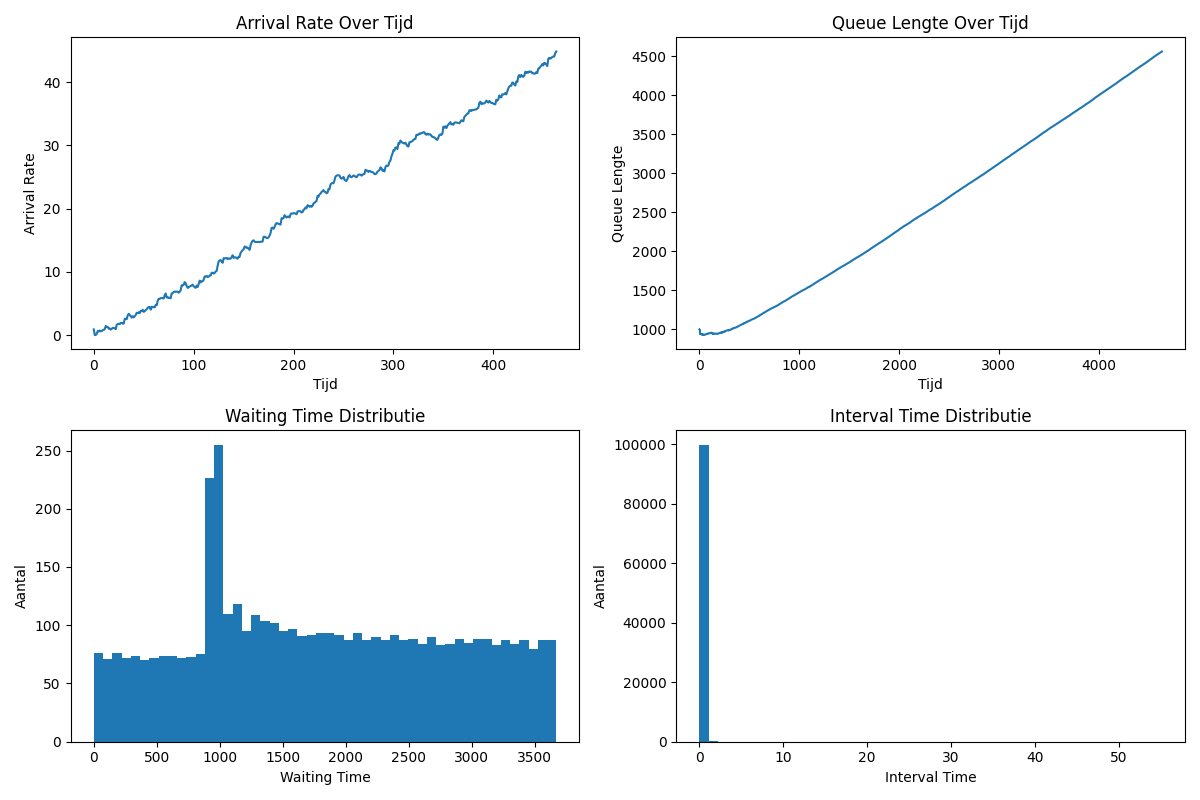
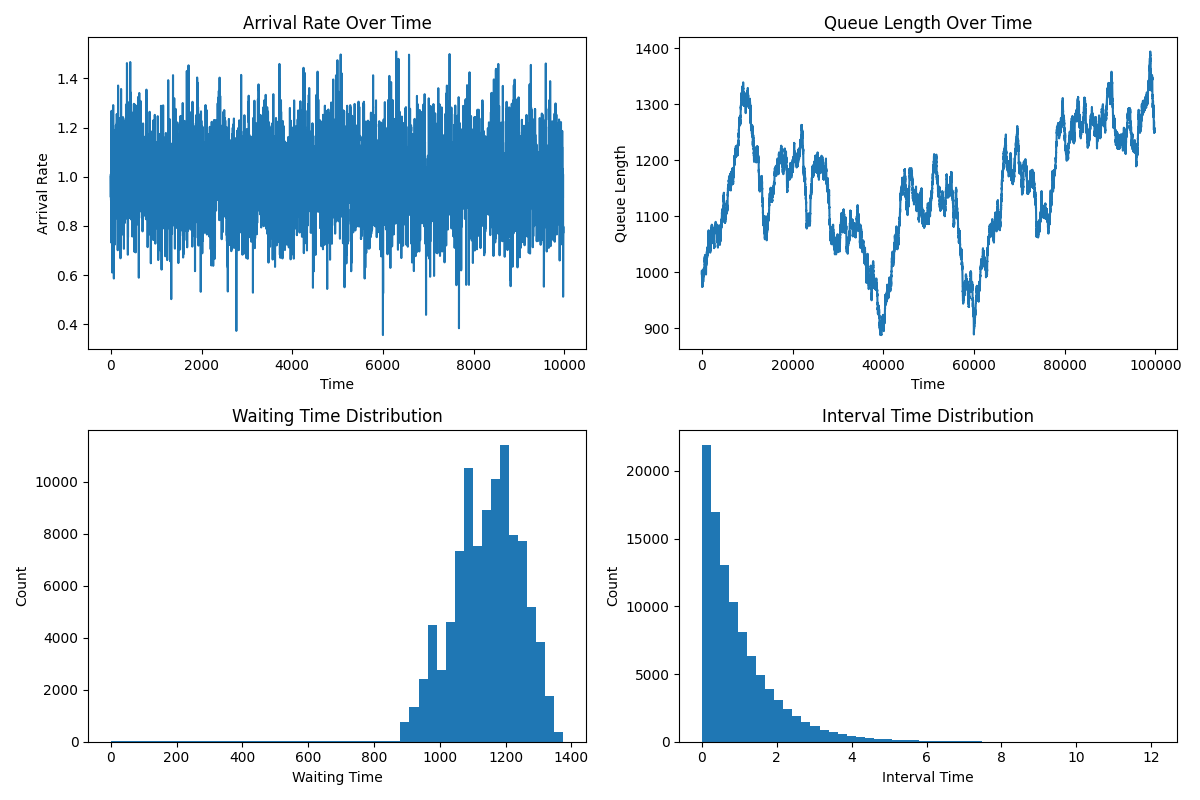
updated with flooding

diff --git a/sde_levy.py b/sde_levy.py
@@ -1,32 +1,48 @@
+
 from assignment3 import barage_queue_simulation
 import numpy as np
 import matplotlib.pyplot as plt
-# Parameters
+
+# Simulation parameters
 n_water = 100000
 n_queues = 1
-arrival_rate = 0.9
+arrival_rate = 1.0
 queue_speed = [1.0, 0.25]
 start_level = 1000
 
+def create_levy_arrival_rate_func(
+    sigma=0.1,
+    jump_lambda=0.08,
+    jump_mu=0.0,
+    jump_sigma=0.15,
+    theta=0.4,
+    rate_min=0.0001,
+    rate_max=5
+):
+    """
+    Returns a function that updates the arrival rate using a mean-reverting Lévy SDE.
+    SDE: dX = θ(1-X)dt + σdW + jumps
+    """
+    rate_state = [1.0]
+    def arrival_rate_func(_, t):
+        dt = 10
+        dt_scaled = dt / 10.0
+        drift = theta * (1.0 - rate_state[0]) * dt_scaled
+        diffusion = sigma * np.random.normal(0, np.sqrt(dt_scaled))
+        n_jumps = np.random.poisson(jump_lambda * dt_scaled)
+        jump_total = np.sum(np.random.normal(jump_mu, jump_sigma, n_jumps)) if n_jumps > 0 else 0.0
+        rate_state[0] += drift + diffusion + jump_total
+        rate_state[0] = np.clip(rate_state[0], rate_min, rate_max)
+        return rate_state[0]
+    return arrival_rate_func
 
-# SDE with Lévy jumps as arrival rate function
-def levy_sde_arrival_rate_func(mu=1.0, sigma=0.1, jump_lambda=0.05, jump_mu=0.5, jump_sigma=0.2):
-    rate = [mu]
-    t_last = [0]
-    def func(current_rate, t):
-        dt = t - t_last[0]
-        t_last[0] = t
-        # Brownian motion part
-        dW = np.random.normal(0, np.sqrt(dt))
-        # Lévy jump part
-        n_jumps = np.random.poisson(jump_lambda * dt)
-        jumps = np.sum(np.random.normal(jump_mu, jump_sigma, n_jumps)) if n_jumps > 0 else 0.0
-        rate[0] = max(0.01, rate[0] + mu * dt + sigma * dW + jumps)
-        return rate[0]
-    return func
-
-# Example: use SDE with Lévy jumps for arrival rate
-arrival_rate_func = levy_sde_arrival_rate_func(mu=0.0, sigma=0.05, jump_lambda=0.02, jump_mu=0.5, jump_sigma=0.1)
+# SDE parameters for simulation
+arrival_rate_func = create_levy_arrival_rate_func(
+    sigma=0.1,
+    jump_lambda=0.01,
+    jump_sigma=0.2,
+    theta=0.3
+)
 
 # Run simulation
 waiting_times, service_times, interval, arrival_rate_history, queue_lengths = barage_queue_simulation(
@@ -38,34 +54,29 @@ waiting_times, service_times, interval, arrival_rate_history, queue_lengths = ba
     arrival_rate_func=arrival_rate_func
 )
 
-# Plotten
+# Plot results
 fig, axs = plt.subplots(2, 2, figsize=(12, 8))
-
-# Plot 1: Arrival rate over tijd
 axs[0, 0].plot(arrival_rate_history)
-axs[0, 0].set_title('Arrival Rate Over Tijd')
-axs[0, 0].set_xlabel('Tijd')
+axs[0, 0].set_title('Arrival Rate Over Time')
+axs[0, 0].set_xlabel('Time')
 axs[0, 0].set_ylabel('Arrival Rate')
 
-# Plot 2: Queue lengte over tijd
 service_times_cum = np.cumsum(service_times)
 min_len = min(len(service_times_cum), len(queue_lengths[start_level:]))
 axs[0, 1].plot(service_times_cum[:min_len], queue_lengths[start_level:start_level+min_len])
-axs[0, 1].set_title('Queue Lengte Over Tijd')
-axs[0, 1].set_xlabel('Tijd')
-axs[0, 1].set_ylabel('Queue Lengte')
+axs[0, 1].set_title('Queue Length Over Time')
+axs[0, 1].set_xlabel('Time')
+axs[0, 1].set_ylabel('Queue Length')
 
-# Plot 3: Waiting time distributie
 axs[1, 0].hist(waiting_times, bins=50)
-axs[1, 0].set_title('Waiting Time Distributie')
+axs[1, 0].set_title('Waiting Time Distribution')
 axs[1, 0].set_xlabel('Waiting Time')
-axs[1, 0].set_ylabel('Aantal')
+axs[1, 0].set_ylabel('Count')
 
-# Plot 4: Interval time distributie
 axs[1, 1].hist(interval, bins=50)
-axs[1, 1].set_title('Interval Time Distributie')
+axs[1, 1].set_title('Interval Time Distribution')
 axs[1, 1].set_xlabel('Interval Time')
-axs[1, 1].set_ylabel('Aantal')
+axs[1, 1].set_ylabel('Count')
 
 plt.tight_layout()
 plt.savefig('simulation_plots_sde.png')

diff --git a/flooding_plots.py b/flooding_plots.py
@@ -1,0 +1,46 @@
+import matplotlib.pyplot as plt
+import numpy as np
+
+def plot_min_max_boxplot(min_queues, max_queues, filename='flooding_minmax_boxplot.png'):
+    mean_max = np.mean(max_queues)
+    std_max = np.std(max_queues)
+    ci95_max = 1.96 * std_max / np.sqrt(len(max_queues))
+    mean_min = np.mean(min_queues)
+    std_min = np.std(min_queues)
+    ci95_min = 1.96 * std_min / np.sqrt(len(min_queues))
+
+    plt.figure(figsize=(12, 6))
+    plt.boxplot([min_queues, max_queues], labels=['Min', 'Max'])
+    plt.title('Min/Max Queue Lengths with Confidence Interval')
+    plt.ylabel('Queue Length')
+    plt.grid(True, axis='y')
+    plt.text(1, mean_min, f"Mean: {mean_min:.1f}\nCI95: ±{ci95_min:.1f}", ha='center', va='bottom', color='blue')
+    plt.text(2, mean_max, f"Mean: {mean_max:.1f}\nCI95: ±{ci95_max:.1f}", ha='center', va='bottom', color='red')
+    plt.savefig(filename)
+    plt.close()
+    print(f"Saved min/max boxplot as '{filename}'.")
+
+def plot_max_distribution(max_queues, filename='flooding_max_distribution.png'):
+    plt.figure(figsize=(12, 6))
+    bins = np.arange(int(np.min(max_queues)), int(np.max(max_queues)) + 50, 50)
+    counts, edges = np.histogram(max_queues, bins=bins)
+    plt.bar(edges[:-1], counts, width=45, align='edge', alpha=0.6, label='Aantal keer max waarde')
+    cum_counts = np.array([np.sum(max_queues >= b) for b in bins])
+    plt.plot(bins, cum_counts, marker='o', color='red', label='Aantal runs met max ≥ waarde')
+    plt.xlabel('Maximale Queue Lengte')
+    plt.ylabel('Aantal runs')
+    plt.title('Hoe vaak wordt een bepaalde max waarde bereikt?')
+    plt.legend()
+    plt.grid(True, axis='y')
+    plt.savefig(filename)
+    plt.close()
+    print(f"Saved max value distribution plot as '{filename}'.")
+
+def main():
+    max_queues = np.load("data/max_queues.npy")
+    min_queues = np.load("data/min_queues.npy")
+    plot_min_max_boxplot(min_queues, max_queues)
+    plot_max_distribution(max_queues)
+
+if __name__ == "__main__":
+    main()

diff --git a/flooding.py b/flooding.py
@@ -1,0 +1,46 @@
+from assignment3 import barage_queue_simulation
+from sde_levy import create_levy_arrival_rate_func
+import numpy as np
+
+
+def run_multiple_simulations(n_runs=1000, seed_start=0):
+    n_water = 100000
+    n_queues = 1
+    arrival_rate = 1.0
+    queue_speed = [1.0, 0.25]
+    start_level = 1000
+    min_queues = []
+    max_queues = []
+    for i in range(n_runs):
+        np.random.seed(seed_start + i)
+        arrival_rate_func = create_levy_arrival_rate_func(
+            sigma=0.1, jump_lambda=0.01, jump_sigma=0.2, theta=0.3
+        )
+        _, _, _, _, queue_lengths = barage_queue_simulation(
+            n_water=n_water,
+            n_queues=n_queues,
+            arrival_rate=arrival_rate,
+            queue_speed=queue_speed,
+            start_level=start_level,
+            arrival_rate_func=arrival_rate_func,
+        )
+        # Only consider after startup
+        queue_after_startup = queue_lengths[start_level:]
+        if len(queue_after_startup) > 0:
+            min_queues.append(np.min(queue_after_startup))
+            max_queues.append(np.max(queue_after_startup))
+        if (i % 10) == 0:
+            print(f"Completed {i+1}/{n_runs} simulations.")
+        print(f"Completed {i+1}/{n_runs} simulations.")
+
+    # Save results in data folder
+    np.save("data/min_queues.npy", np.array(min_queues))
+    np.save("data/max_queues.npy", np.array(max_queues))
+    print(f"Saved min_queues and max_queues to data folder.")
+    print(f"Over {n_runs} runs:")
+    print(f"Minimum queue length after startup: {np.min(min_queues)}")
+    print(f"Maximum queue length after startup: {np.max(max_queues)}")
+
+
+if __name__ == "__main__":
+    run_multiple_simulations()

diff --git a/test.py b/test.py
@@ -1,0 +1,51 @@
+
+from assignment3 import barage_queue_simulation
+from sde_levy import create_levy_arrival_rate_func
+import numpy as np
+
+def run_multiple_simulations(n_runs=100, seed_start=0):
+	n_water = 100000
+	n_queues = 1
+	arrival_rate = 1.0
+	queue_speed = [1.0, 0.25]
+	start_level = 1000
+	min_queues = []
+	max_queues = []
+	for i in range(n_runs):
+		np.random.seed(seed_start + i)
+		arrival_rate_func = create_levy_arrival_rate_func(
+			sigma=0.1,
+			jump_lambda=0.01,
+			jump_sigma=0.2,
+		for i in range(n_runs):
+		)
+		_, _, _, _, queue_lengths = barage_queue_simulation(
+			n_water=n_water,
+			n_queues=n_queues,
+			arrival_rate=arrival_rate,
+			queue_speed=queue_speed,
+			start_level=start_level,
+			arrival_rate_func=arrival_rate_func
+		)
+		# Only consider after startup
+		queue_after_startup = queue_lengths[start_level:]
+		if len(queue_after_startup) > 0:
+			min_queues.append(np.min(queue_after_startup))
+	    	max_queues.append(np.max(queue_after_startup))
+        if (i % 10) == 0:
+            print(f"Completed {i+1}/{n_runs} simulations.")
+       
+
+	min_queues.append(np.min(queue_after_startup))
+	max_queues.append(np.max(queue_after_startup))
+	np.save("data/max_queues.npy", np.array(max_queues))
+	print(f"Saved min_queues and max_queues to data folder.")
+	print(f"Over {n_runs} runs:")
+	print(f"Minimum queue length after startup: {np.min(min_queues)}")
+	print(test)
+	print(f"Maximum queue length after startup: {np.max(max_queues)}")
+
+if __name__ == "__main__":
+	run_multiple_simulations()
+
+
